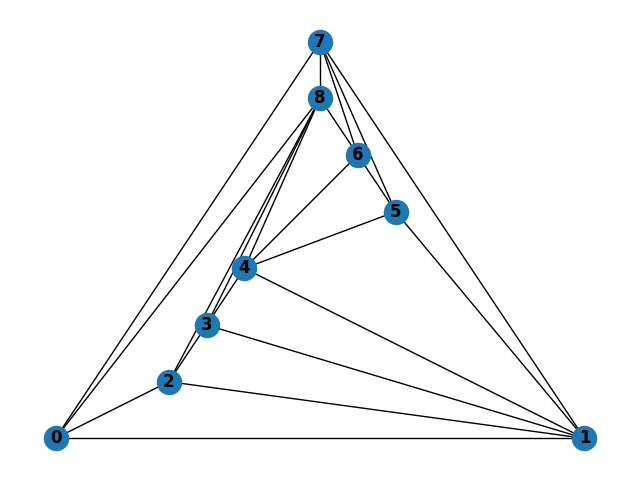
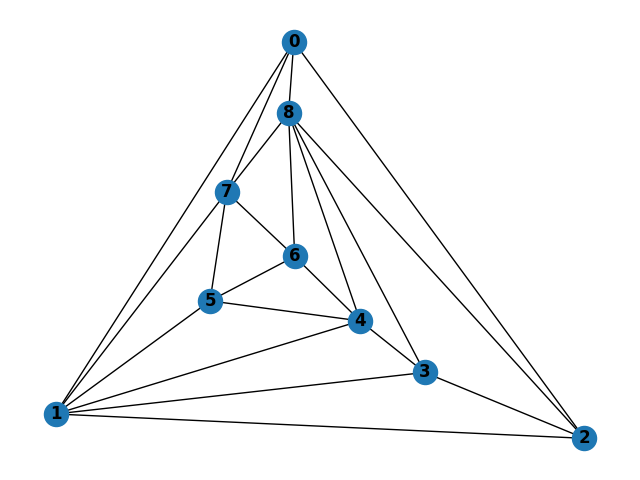
Embedding Fixed

Changed region(s): [[0.0625, 0.0625, 0.9375, 0.9375]]

diff --git a/source/polygonal/canonical.py b/source/polygonal/canonical.py
@@ -11,6 +11,8 @@ class canonical:
         self.adjacencies = []
         # self.graph_data = dict.fromkeys(['iteration','marked','neighbors','currentCanonicalOrder'])
         self.graph_data = {}
+        self.node_coordinate = [] 
+        self.new_node_coordinate = {}
     def run(self):
         
         #inputting te graph
@@ -35,7 +37,13 @@ class canonical:
         canord = np.zeros(n, dtype= int)
         self.canonical_order(canord, v1,v2,vn, n)   # TODO find v1,v2,vn
 
-    def displayInputGraph(self,noOfNodes,edge_set):
+    def displayInputGraph(self,noOfNodes,edge_set,nodes_data):
+        for i in nodes_data: #To get the Coordinates of the nodes 
+            temp_node_data = []
+            temp_node_data.append(i.pos_x)
+            temp_node_data.append(i.pos_y)
+            self.node_coordinate.append(temp_node_data)
+    
         self.graph_data = {'iteration':np.zeros(noOfNodes),'marked': np.zeros(noOfNodes),'neighbors': [],'currentCanonicalOrder': np.zeros(noOfNodes*noOfNodes).reshape(noOfNodes,noOfNodes)}
         for i in range(noOfNodes):
             self.G.add_node(i, id = -1, chord = 0, mark = False, out = False)
@@ -50,8 +58,10 @@ class canonical:
         if(not is_planar):
             return False;
 
-        nx.draw_planar(self.G,with_labels=True, font_weight='bold')
+        nx.draw(self.G,self.node_coordinate,with_labels=True, font_weight='bold')
+        plt.gca().invert_yaxis()
         plt.savefig("inputgraph.png")
+
         plt.show()    #DEBUG TODO ON
         return True
 
@@ -106,6 +116,7 @@ class canonical:
 
         for i in range(n-1, 1, -1):
             print("\n\nIteration {}".format(n+2-i))
+            print("Chords : {}".format(chord))
             temp_array = np.logical_and(np.logical_and(np.logical_not(mark), out), np.logical_not(chord))
             # print(temp_array)
             poss_vertex = np.where(temp_array == True)[0].flatten()
@@ -119,9 +130,9 @@ class canonical:
             print ("Neighbors of vk: {} ".format(neighbors))
             for j in neighbors:
                 out[j] = True
-            self.updatechord(chord, mark,out, n)
+            self.updatechord(chord, mark,out, v1,v2)
             print("Canonical Order: {}".format(canord))
-            # displayGraph(canord,n)
+            # self.displayGraph(canord,n)
             self.updateGraphData(n,i,vk,neighbors,canord)
      
         print("\nFinal Canonical Order: {}".format(canord))
@@ -148,30 +159,32 @@ class canonical:
         int2label ={}
         for i in range(n):
             int2label[i] = canord[i]
+            self.new_node_coordinate[canord[i]] = self.node_coordinate[i]
         self.G = nx.relabel_nodes(self.G, int2label)
-        nx.draw_planar(self.G,with_labels=True, font_weight='bold')
+        nx.draw(self.G,self.new_node_coordinate,with_labels=True, font_weight='bold')
+        plt.gca().invert_yaxis()
         plt.savefig("outputCanonicalOrder.png")
         self.graphs.append(self.G)
 
-    def updatechord(self,chord, mark,out, n):
+    def updatechord(self,chord, mark,out,v1,v2):
 
-        chord
         outer = np.logical_and(out, np.logical_not(mark))
-        outer[0] = True
-        outer[1] = True
+        outer[v1] = True
+        outer[v2] = True
         outer_surface = np.where(outer == True)[0]
-        # print(outer_surface)
-        out_neighbor_count = np.zeros(np.size(outer_surface))
+        # print("Outer Surface {}".format(outer_surface)) #On For Debug
+        out_neighbor_count = np.zeros(np.size(outer_surface), dtype= int)
 
         for i in range(0, np.size(outer_surface)):
             for j in range(0, np.size(outer_surface)):
-                if(self.G.has_edge(outer_surface[i],outer_surface[j])) :
+                if(i!=j and self.G.has_edge(outer_surface[i],outer_surface[j])) :
                     out_neighbor_count[i] += 1
             if(out_neighbor_count[i]>2) :
                 chord[outer_surface[i]] = True
             else :
                 chord[outer_surface[i]] = False
-                # print (outer_surface[i])
+        
+        # print("Outer Neighbor Count {}".format(out_neighbor_count)) #On For Debug
         
         return 
 

diff --git a/pythongui/gui.py b/pythongui/gui.py
@@ -1626,7 +1626,7 @@ class gui_class:
         """This function takes user input for starting edge/door for the corridor
         """
         self.canonicalObject = cano.canonical()
-        self.canonicalObject.displayInputGraph(len(self.app.nodes_data),self.app.edges)
+        self.canonicalObject.displayInputGraph(len(self.app.nodes_data),self.app.edges,self.app.nodes_data)
 
         self.top = tk.Toplevel(self.root, width = 300, height = 300)
         root = self.top
